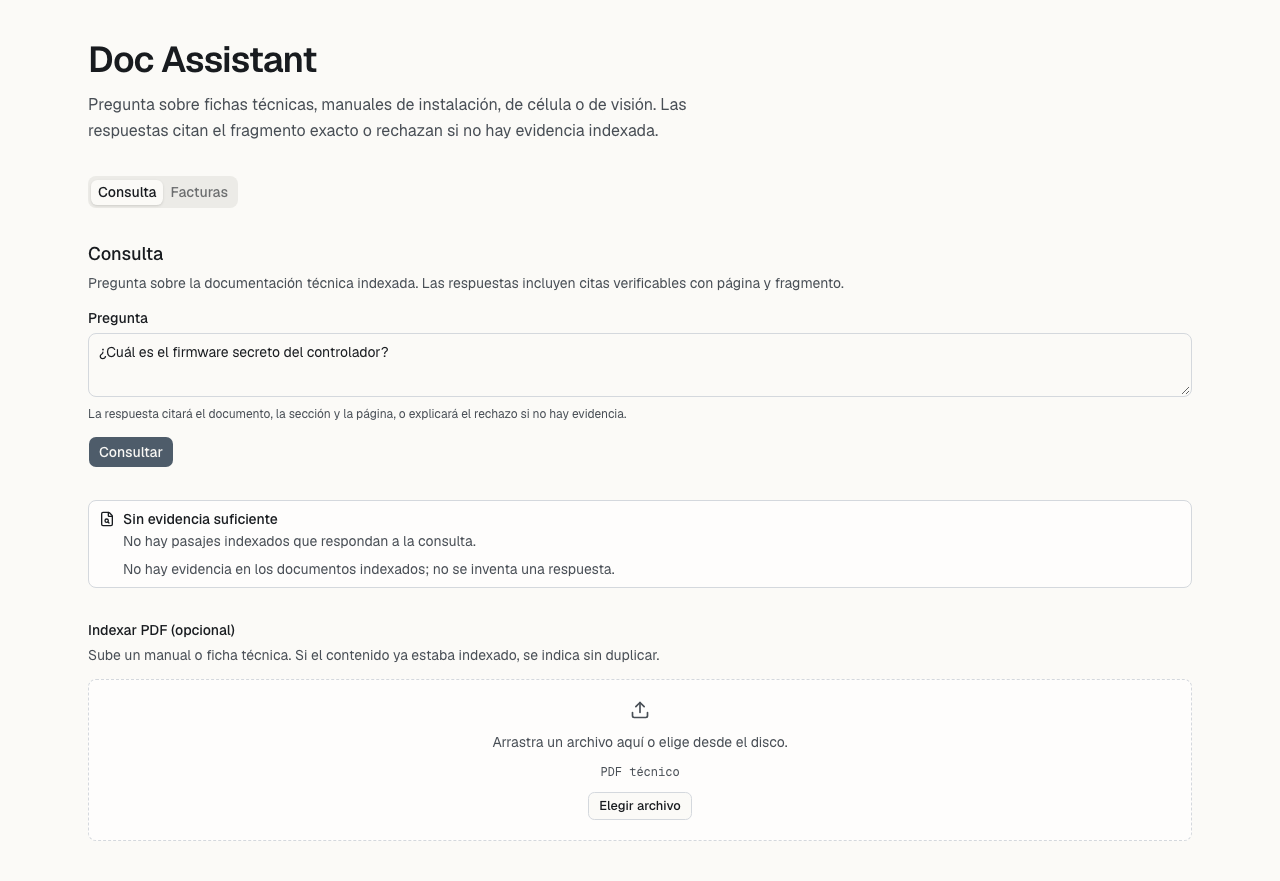
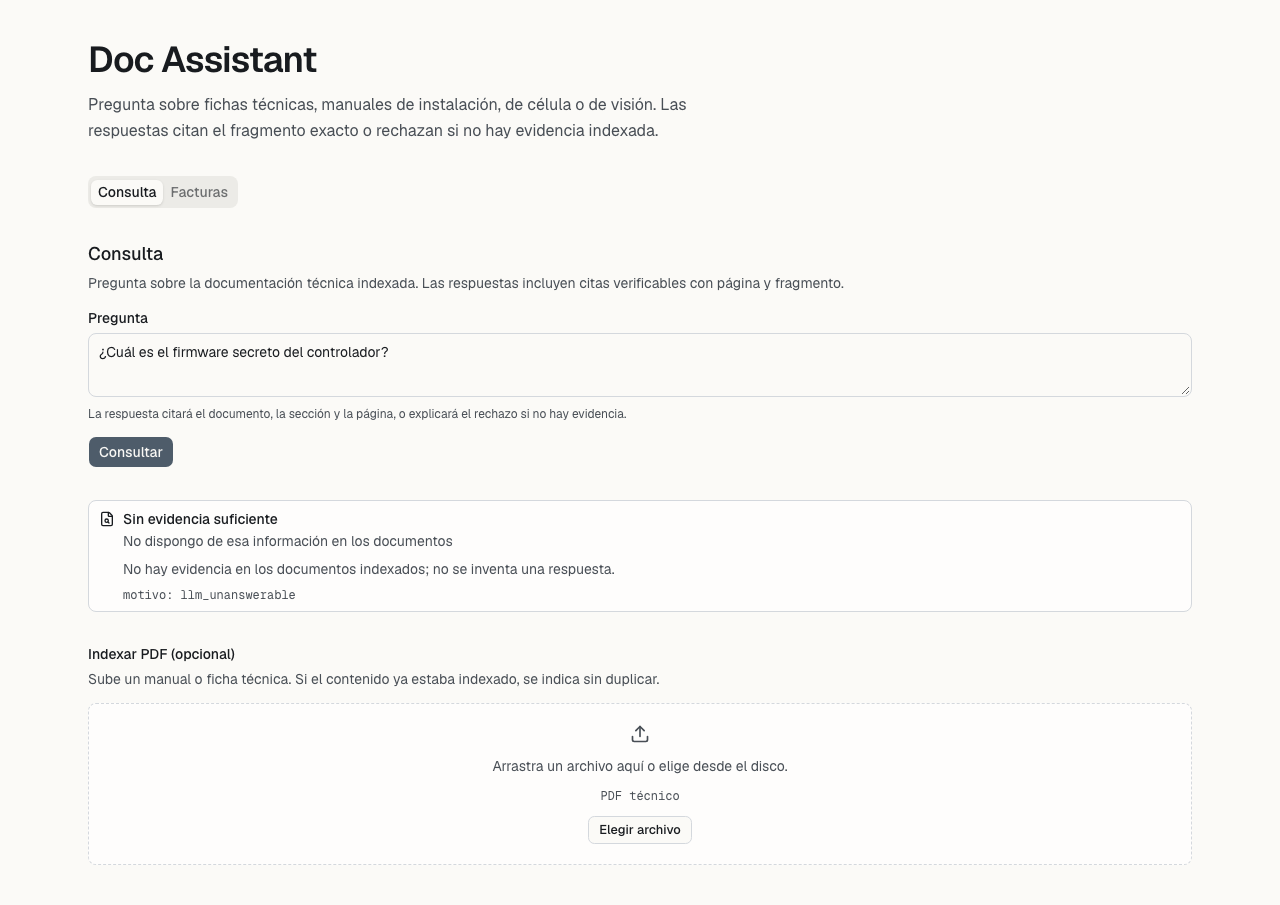
fix(web): errores de red/timeout como ErrorBody tipado, rechazo con texto del API y sin robo de foco en el visor (revisión sol #16 #24 #25)

diff --git a/apps/web/src/components/domain/SourceViewer.tsx b/apps/web/src/components/domain/SourceViewer.tsx
@@ -1,6 +1,6 @@
 "use client"
 
-import { useEffect, useRef, useState } from "react"
+import { useState } from "react"
 import { ChevronLeftIcon, ChevronRightIcon, ZoomInIcon, ZoomOutIcon } from "lucide-react"
 
 import { Button } from "@/components/ui/button"
@@ -35,15 +35,8 @@ export function SourceViewer({
   onPrevCitation,
   onNextCitation,
 }: SourceViewerProps) {
-  const regionRef = useRef<HTMLDivElement>(null)
   const [zoomedChunkId, setZoomedChunkId] = useState<string | null>(null)
   const zoomed = citation !== null && zoomedChunkId === citation.chunk_id
-
-  useEffect(() => {
-    if (citation && regionRef.current) {
-      regionRef.current.focus()
-    }
-  }, [citation])
 
   if (!citation) {
     return (
@@ -110,8 +103,7 @@ export function SourceViewer({
       </CardHeader>
       <CardContent>
         <div
-          ref={regionRef}
-          tabIndex={-1}
+          aria-live="polite"
           role="region"
           aria-label={`Fuente ${citation.doc}${page !== null ? `, página ${page}` : ""}`}
           className="flex flex-col gap-4 outline-none focus-visible:ring-3 focus-visible:ring-ring/50"

diff --git a/apps/web/e2e/ask.spec.ts b/apps/web/e2e/ask.spec.ts
@@ -115,7 +115,7 @@ test.describe("ask flow screenshots", () => {
         await page.getByRole("button", { name: "Consultar" }).click()
 
         await expect(page.getByTestId("refusal-notice")).toBeVisible()
-        await expect(page.getByText(askRefusal.reason)).toBeVisible()
+        await expect(page.getByText(askRefusal.answer)).toBeVisible()
         await expect(
           page.getByText(
             "No hay evidencia en los documentos indexados; no se inventa una respuesta."
@@ -146,4 +146,14 @@ test.describe("ask flow screenshots", () => {
       })
     })
   }
+})
+
+test("fallo de red: estado de error y formulario usable", async ({ page }) => {
+  await page.route("**/api/ask", (route) => route.abort("connectionrefused"))
+  await page.goto("/")
+  await page.getByLabel("Pregunta").fill(DEMO_QUESTION)
+  await page.getByRole("button", { name: "Consultar" }).click()
+  await expect(page.getByTestId("ask-error-notice")).toBeVisible()
+  await expect(page.getByText("Error (network_error)")).toBeVisible()
+  await expect(page.getByRole("button", { name: "Consultar" })).toBeEnabled()
 })

diff --git a/apps/web/src/components/domain/RefusalNotice.tsx b/apps/web/src/components/domain/RefusalNotice.tsx
@@ -3,20 +3,25 @@ import { FileSearchIcon } from "lucide-react"
 import { Alert, AlertDescription, AlertTitle } from "@/components/ui/alert"
 
 type RefusalNoticeProps = {
+  /** Texto redactado por el API (`answer`); el código `reason` es solo diagnóstico. */
+  message: string
   reason: string
 }
 
-export function RefusalNotice({ reason }: RefusalNoticeProps) {
+export function RefusalNotice({ message, reason }: RefusalNoticeProps) {
   return (
     <Alert data-testid="refusal-notice">
       <FileSearchIcon />
       <AlertTitle>Sin evidencia suficiente</AlertTitle>
       <AlertDescription>
         <span className="flex flex-col gap-2">
-          <span>{reason}</span>
+          <span>{message}</span>
           <span className="text-muted-foreground">
             No hay evidencia en los documentos indexados; no se inventa una
             respuesta.
+          </span>
+          <span className="font-mono text-xs text-muted-foreground">
+            motivo: {reason}
           </span>
         </span>
       </AlertDescription>

diff --git a/apps/web/src/lib/api/client.ts b/apps/web/src/lib/api/client.ts
@@ -1,5 +1,26 @@
-import createClient from "openapi-fetch"
+import createClient, { type Middleware } from "openapi-fetch"
 
 import type { paths } from "@/lib/api/schema"
 
-export const api = createClient<paths>({ baseUrl: "/api" })
+const REQUEST_TIMEOUT_MS = 180_000
+
+// Un fallo de red o un timeout se convierte en el mismo contrato de error
+// {code, message} que devuelve el API: ningún hook se queda "cargando".
+const networkErrors: Middleware = {
+  onError({ error }) {
+    const timeout = error instanceof DOMException && error.name === "TimeoutError"
+    return Response.json(
+      timeout
+        ? { code: "timeout", message: "El servicio tardó demasiado en responder." }
+        : { code: "network_error", message: "No se pudo contactar con el servicio." },
+      { status: 503 },
+    )
+  },
+}
+
+export const api = createClient<paths>({
+  baseUrl: "/api",
+  fetch: (request: Request) =>
+    fetch(request, { signal: AbortSignal.timeout(REQUEST_TIMEOUT_MS) }),
+})
+api.use(networkErrors)

diff --git a/apps/web/e2e/fixtures.ts b/apps/web/e2e/fixtures.ts
@@ -34,9 +34,9 @@ export const askAnswerWithCitation = {
 
 export const askRefusal = {
   ok: false,
-  answer: "",
+  answer: "No dispongo de esa información en los documentos",
   citations: [],
-  reason: "No hay pasajes indexados que respondan a la consulta.",
+  reason: "llm_unanswerable",
 } as const satisfies AskResponse
 
 export const askError = {

diff --git a/apps/web/src/components/domain/AskWorkspace.tsx b/apps/web/src/components/domain/AskWorkspace.tsx
@@ -79,7 +79,7 @@ export function AskWorkspace() {
       ) : null}
 
       {status.kind === "success" && !status.data.ok ? (
-        <RefusalNotice reason={status.data.reason} />
+        <RefusalNotice message={status.data.answer} reason={status.data.reason} />
       ) : null}
 
       {status.kind === "success" && status.data.ok ? (
